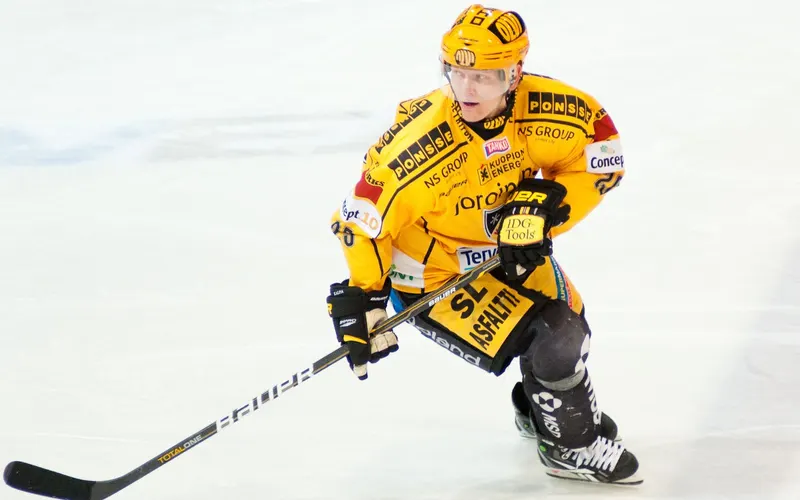
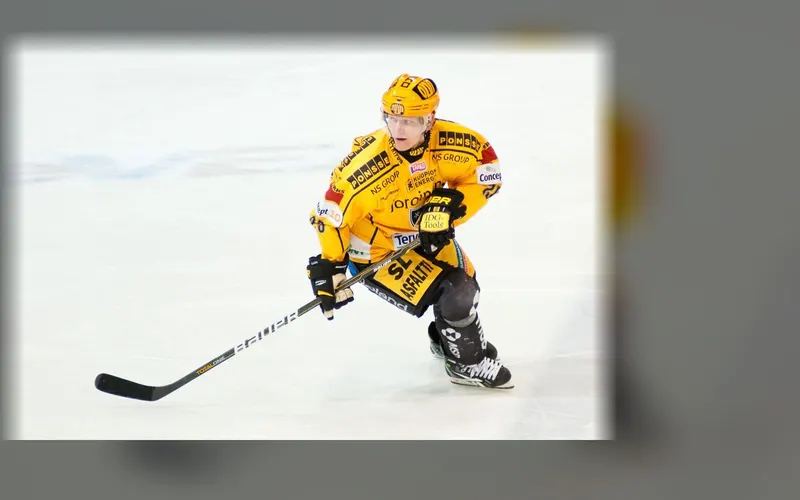
Kärpät, Lukko, KalPa: hero-kuvat uusiksi niin että pelaaja näkyy kokonaan desktopissa

diff --git a/apps/tietoniekka/lib/kuvalahteet.ts b/apps/tietoniekka/lib/kuvalahteet.ts
@@ -108,14 +108,14 @@ export const KUVALAHTEET: Kuvalahde[] = [
   { slug: "tappara-tampere-kirvesrinnat-tietovisa", kokoelma: "jaakiekko", kuvaus: "Tappara Nokia Arenan avausottelussa 3.12.2021", tiedosto: "Nokia Arenan avajaiset 30.jpg", tekija: "kallerna", lisenssi: "CC BY-SA 4.0", lisenssiUrl: CC("by-sa/4.0"), vuosi: "2021" },
   { slug: "ilves-tampere-keltamustat-tietovisa", kokoelma: "jaakiekko", kuvaus: "Raimo Helminen Ilveksen vuoden 1985 retropaidassa 2008", tiedosto: "Helminen Raimo Vintage Jersey.jpg", tekija: "Saruwine", lisenssi: "CC BY-SA 3.0", lisenssiUrl: CC("by-sa/3.0"), vuosi: "2008", muokkaus: "rajattu, sivuille sumennettu jatke samasta kuvasta" },
   { slug: "tps-turku-jaakiekko-tietovisa", kokoelma: "jaakiekko", kuvaus: "Marko Kiprusoff, TPS 2008", tiedosto: "Kiprusoff Marko TPS.jpg", tekija: "Saruwine", lisenssi: "CC BY-SA 4.0", lisenssiUrl: CC("by-sa/4.0"), vuosi: "2008" },
-  { slug: "karpat-tietovisa-legendat", kokoelma: "jaakiekko", kuvaus: "Juha-Pekka Haataja, Kärpät 2012", tiedosto: "Juha-Pekka Haataja 2012.jpg", tekija: "Tuomas Vitikainen", lisenssi: "CC BY-SA 3.0", lisenssiUrl: CC("by-sa/3.0"), vuosi: "2012" },
+  { slug: "karpat-tietovisa-legendat", kokoelma: "jaakiekko", kuvaus: "Juha-Pekka Haataja, Kärpät 2012", tiedosto: "Juha-Pekka Haataja 2012.jpg", tekija: "Tuomas Vitikainen", lisenssi: "CC BY-SA 3.0", lisenssiUrl: CC("by-sa/3.0"), vuosi: "2012" , muokkaus: "pienennetty, ympärillä sumennettu jatke samasta kuvasta" },
   { slug: "hifk-helsinki-punavalkoiset-tietovisa", kokoelma: "jaakiekko", kuvaus: "Siim Liivik, HIFK 2010", tiedosto: "Siim Liivik.jpg", tekija: "Tuomas Vitikainen", lisenssi: "CC BY-SA 3.0", lisenssiUrl: CC("by-sa/3.0"), vuosi: "2010" },
   { slug: "jokerit-helsinki-liigahistoria-tietovisa", kokoelma: "jaakiekko", kuvaus: "Jokerit juhlii pudotuspelivoittoa 2026", tiedosto: "Jokerit Heksinki.jpg", tekija: "Quintin Soloviev", lisenssi: "CC BY 4.0", lisenssiUrl: CC("by/4.0"), vuosi: "2026" },
   { slug: "assat-isomaen-ukkoset-tietovisa", kokoelma: "jaakiekko", kuvaus: "Ässät juhlii voittoa 2023", tiedosto: "Ässät victory celebration 03-01 2023.jpg", tekija: "Kilaseell", lisenssi: "CC BY-SA 4.0", lisenssiUrl: CC("by-sa/4.0"), vuosi: "2023" },
   { slug: "hpk-rinkelinmaen-ritarit-tietovisa", kokoelma: "jaakiekko", kuvaus: "HPK Tampere Cupissa 2021", tiedosto: "Ilves vs HPK Tampere Cup 2021 2.jpg", tekija: "Piquito", lisenssi: "CC BY-SA 4.0", lisenssiUrl: CC("by-sa/4.0"), vuosi: "2021" },
-  { slug: "rauman-lukko-visa", kokoelma: "jaakiekko", kuvaus: "Lukko Champions Hockey Leaguessa 2025", tiedosto: "2025-09-05 Eisbären Berlin gegen Lukko Rauma (Champions Hockey League 2025-26) by Sandro Halank–021.jpg", tekija: "Sandro Halank", lisenssi: "CC BY-SA 4.0", lisenssiUrl: CC("by-sa/4.0"), vuosi: "2025" },
+  { slug: "rauman-lukko-visa", kokoelma: "jaakiekko", kuvaus: "Lukko Champions Hockey Leaguessa 2025", tiedosto: "2025-09-05 Eisbären Berlin gegen Lukko Rauma (Champions Hockey League 2025-26) by Sandro Halank–021.jpg", tekija: "Sandro Halank", lisenssi: "CC BY-SA 4.0", lisenssiUrl: CC("by-sa/4.0"), vuosi: "2025" , muokkaus: "pienennetty, ympärillä sumennettu jatke samasta kuvasta" },
   { slug: "jyp-hippoksen-hurmaa-tietovisa", kokoelma: "jaakiekko", kuvaus: "Sinuhe Wallinheimo, JYP 2007", tiedosto: "Wallinheimo Sinuhe JYP.jpg", tekija: "Saruwine", lisenssi: "CC BY-SA 4.0", lisenssiUrl: CC("by-sa/4.0"), vuosi: "2007", muokkaus: "rajattu, sivuille sumennettu jatke samasta kuvasta" },
-  { slug: "kalpa-niiralan-montun-kovin-tietovisa", kokoelma: "jaakiekko", kuvaus: "Jukka Hentunen, KalPa 2011", tiedosto: "Jukka Hentunen - KalPa 2011.jpg", tekija: "Tuomas Vitikainen", lisenssi: "CC BY-SA 3.0", lisenssiUrl: CC("by-sa/3.0"), vuosi: "2011" },
+  { slug: "kalpa-niiralan-montun-kovin-tietovisa", kokoelma: "jaakiekko", kuvaus: "Jukka Hentunen, KalPa 2011", tiedosto: "Jukka Hentunen - KalPa 2011.jpg", tekija: "Tuomas Vitikainen", lisenssi: "CC BY-SA 3.0", lisenssiUrl: CC("by-sa/3.0"), vuosi: "2011" , muokkaus: "pienennetty, ympärillä sumennettu jatke samasta kuvasta" },
   { slug: "pelicans-kolme-kertaa-hopealla-tietovisa", kokoelma: "jaakiekko", kuvaus: "Jyri Marttinen, Pelicans 2011", tiedosto: "Marttinen Jyri Pelicans 2011 1.jpg", tekija: "Saruwine", lisenssi: "CC BY-SA 3.0", lisenssiUrl: CC("by-sa/3.0"), vuosi: "2011", muokkaus: "rajattu, sivuille sumennettu jatke samasta kuvasta" },
   { slug: "saipa-saimaan-syketta-tietovisa", kokoelma: "jaakiekko", kuvaus: "Miikka Salomäki, SaiPa 2026", tiedosto: "Miikka Salomäki SaiPa Hockey Player.jpg", tekija: "Alluvisuals", lisenssi: "CC BY 4.0", lisenssiUrl: CC("by/4.0"), vuosi: "2026" },
   { slug: "kookoo-kiekko-kimpassa-tietovisa", kokoelma: "jaakiekko", kuvaus: "Kärpät–KooKoo, Oulun jäähalli 2023", tiedosto: "Kärpät vs KooKoo 20230222 02.jpg", tekija: "Estormiz", lisenssi: "CC0", lisenssiUrl: "https://creativecommons.org/publicdomain/zero/1.0/", vuosi: "2023" },
